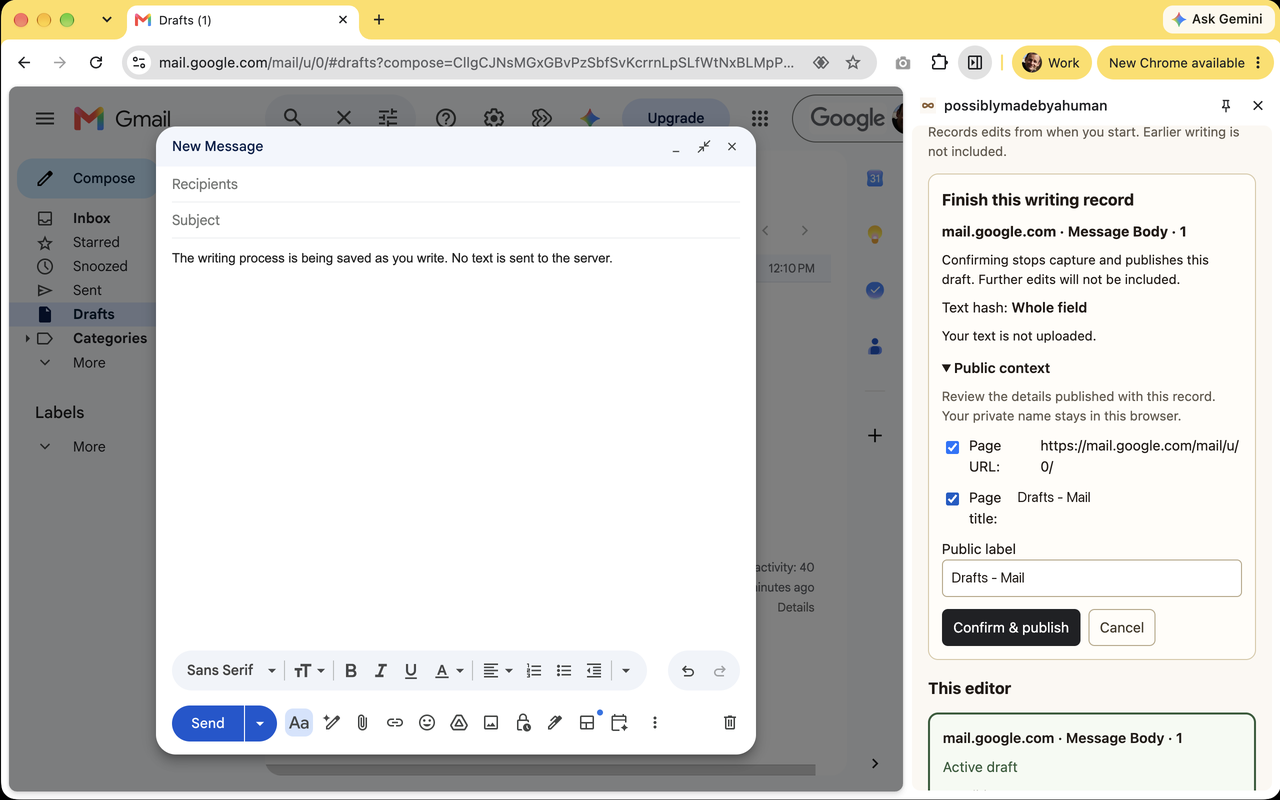
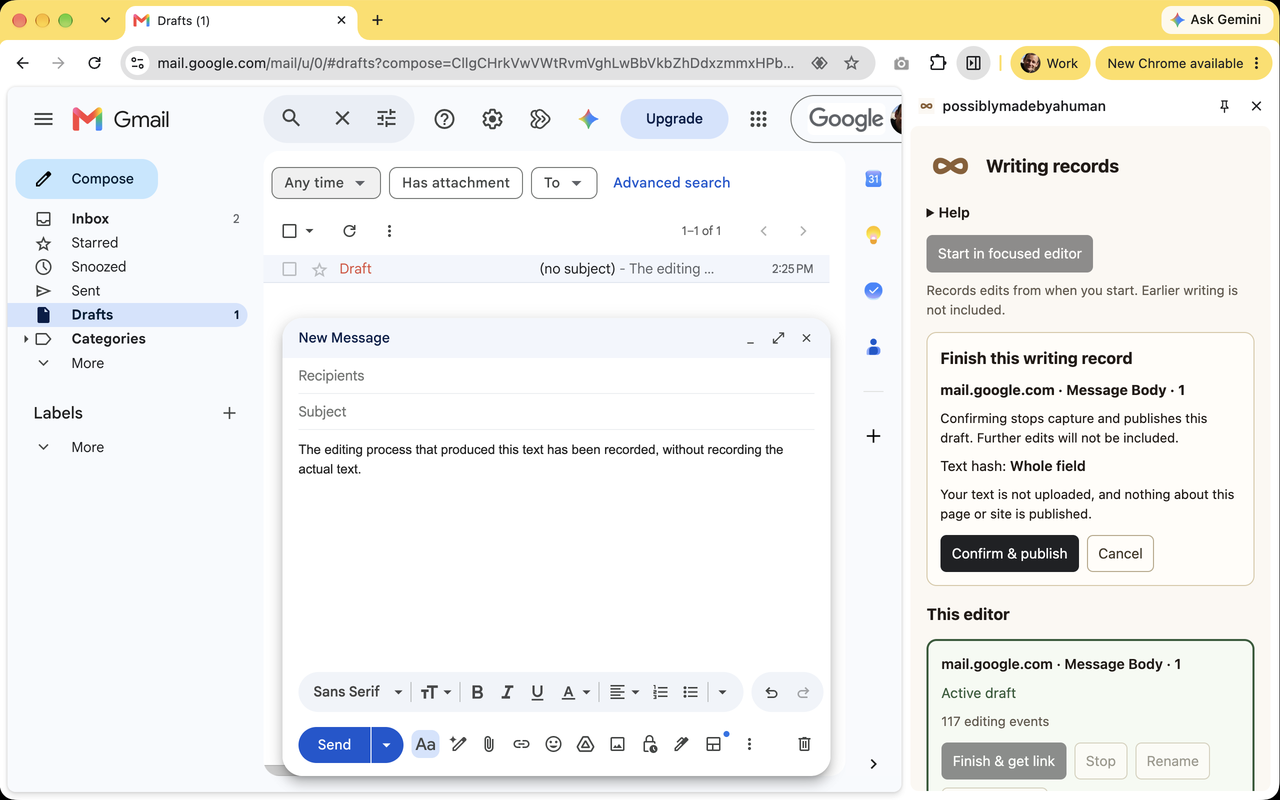
Replace store screenshots 3 and 4 with ones taken with 0.4.2

diff --git a/docs/chrome-web-store-listing.md b/docs/chrome-web-store-listing.md
@@ -92,19 +92,14 @@ releasing a new version.
 | Screenshot 1 | `apps/browser-extension/store-assets/screenshots/1-start.png`: Start writing record in the right-click menu of a Gmail draft |
 | Screenshot 2 | `apps/browser-extension/store-assets/screenshots/2-recording.png`: the draft being recorded, with the side panel |
 | Screenshot 3 | `apps/browser-extension/store-assets/screenshots/3-review.png`: the finish review |
-| Screenshot 4 | `apps/browser-extension/store-assets/screenshots/4-record.png`: the published record page beside the saved-record panel |
+| Screenshot 4 | `apps/browser-extension/store-assets/screenshots/4-record.png`: the published record page |
 | Screenshot 5 | `apps/browser-extension/store-assets/screenshots/5-timeline.png`: the edit timeline and writing rhythm |
 | Small promo tile (440x280) | `apps/browser-extension/store-assets/promo-tile-440x280.png` |
 | Marquee promo tile (1400x560) | Optional; none prepared |
 
-All screenshots are 1280x800, captured by hand in Chrome with the published
-extension in a Gmail draft, with the writer's email address removed.
-
-Screenshots 3 and 4 show 0.4.0 behavior that has since been removed.
-Screenshot 3 shows the finish review with its Public context section (page URL,
-page title and public label), and screenshot 4 shows a record page whose
-summary names the site ("Written in a text field on mail.google.com"). Retake
-both once the next version is published, and replace them in the dashboard.
+All screenshots are 1280x800, captured by hand in Chrome with the extension in
+a Gmail draft, with the writer's email address removed from the tab title.
+Screenshots 3 and 4 were taken with 0.4.2.
 
 ### Additional fields
 

diff --git a/docs/release-0.4.2-handoff.md b/docs/release-0.4.2-handoff.md
@@ -44,7 +44,8 @@ Upload the 0.4.2 ZIP to the Chrome Web Store listing in place of 0.4.0, and
 update the dashboard as described in
 [`chrome-web-store-listing.md`](chrome-web-store-listing.md): untick Web
 history, paste the updated description, reviewer instructions and `storage`
-justification, and retake screenshots 3 and 4.
+justification, and replace screenshots 3 and 4 with the ones in
+`apps/browser-extension/store-assets/screenshots/`.
 
 ## Validation
 
